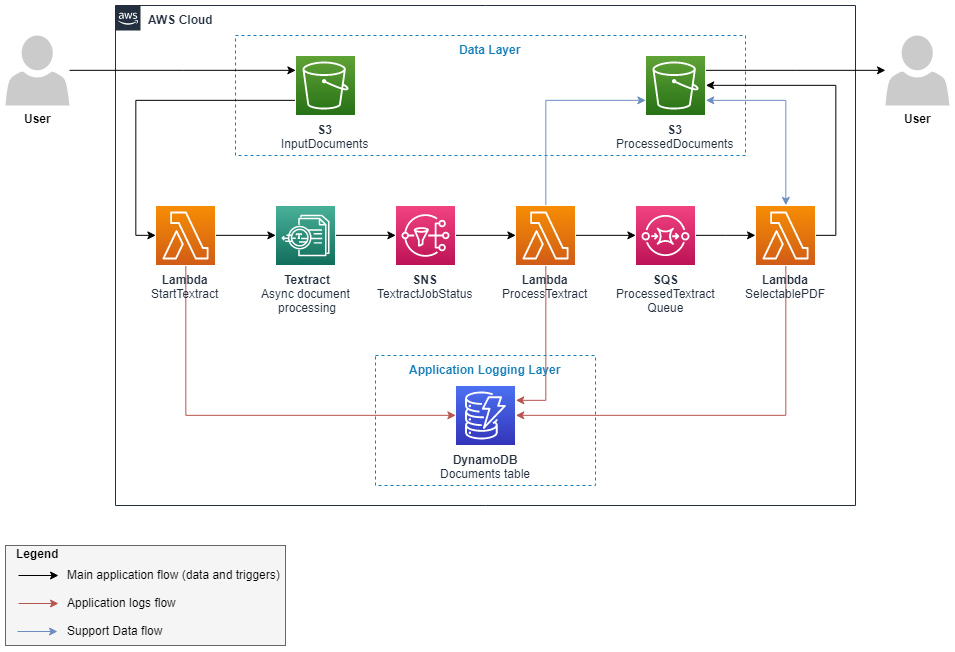
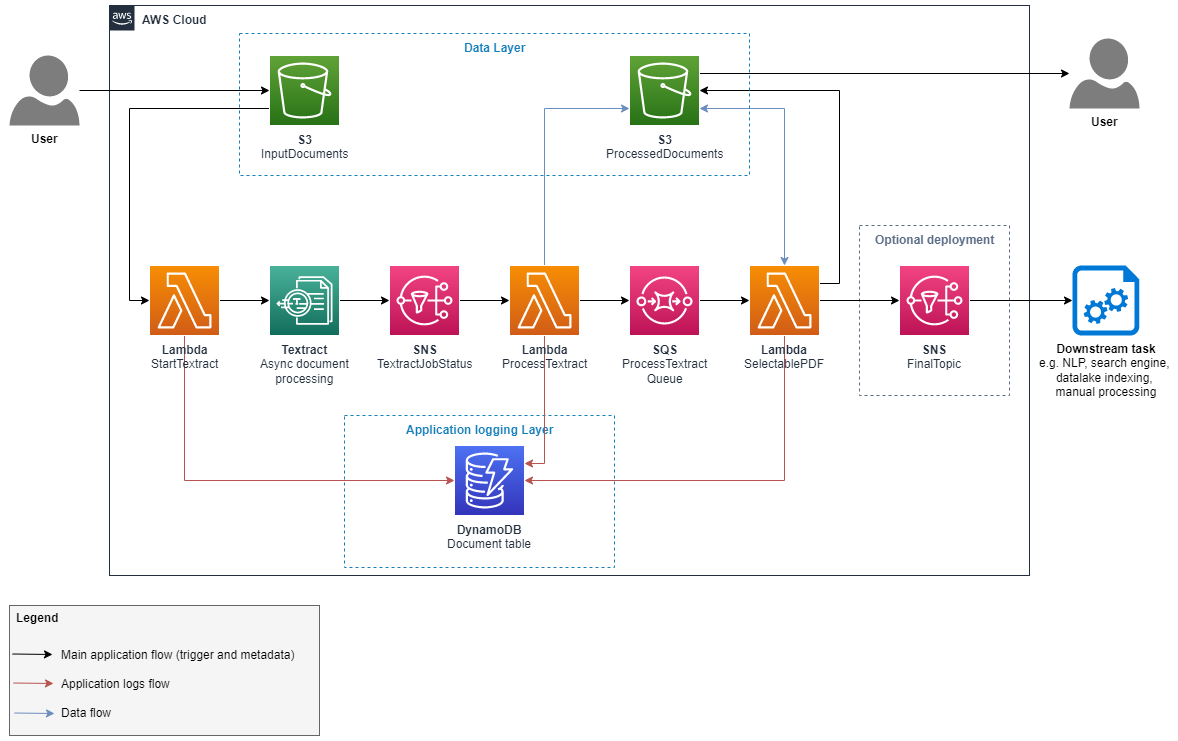
reorganize repo to make the stack fully usage as a module

diff --git a/selectable_pdf_infra/setup.py b/selectable_pdf_infra/setup.py
@@ -1,5 +1,8 @@
 import setuptools
 import pathlib
+import os
+from typing import List
+
 
 CURRENT_FILEPATH = pathlib.Path(__file__).absolute()
 CURRENT_DIRPATH = CURRENT_FILEPATH.parent.absolute()
@@ -9,15 +12,53 @@ LIB_DIRPATH = CURRENT_DIRPATH.parent.joinpath('lib')
 with open('README.md') as fp:
     long_description = fp.read()
 
+def build_package_data(dir: str) -> List[str]:
+    '''
+    build the list of files with their path from package directory, but with the 
+    package name in the returns. Imagine the following package structure:
+
+    |- mypackage
+        |- mypackage
+            |- __init__.py
+            |- code_for_mypackage.py
+            |- somedir
+                |- somefile.txt
+        |- setup.py
+
+    If we want to include somefile.txt in the installed package, we need to include 
+    in setup.py the following:
+
+    setuptools.setup(
+        packages=['mypackage'],
+        package_data={'mypackage': ['somedir/somefile.txt']}
+    )
+
+    this function helps to build the values of the package_data dict: 
+
+    package_data={'mypackage': build_package_data('mypackage/somedir')}
+    '''
+    file_list = list()
+    dir_tail = os.path.dirname(dir)
+    for path, subdirs, files in os.walk(dir):
+        join_path = path.replace(dir_tail+'/', '')
+        for name in files:
+            file_list.append(os.path.join(join_path, name))
+    return file_list
+
+package_data = list()
+package_data.extend(build_package_data('selectable_pdf_infra/lambda'))
+package_data.extend(build_package_data('selectable_pdf_infra/lambda_layer'))
+
 setuptools.setup(
     name='selectable_pdf_infra',
-    version='2.1.0',
+    version='2.2.0',
     description='infrastructure to convert scanned PDF\'s into selectable PDF\'s with AWS',
     long_description=long_description,
     long_description_content_type='text/markdown',
     author='Marcel Vonlanthen',
     email='vonlanth@amazon.com',
     packages=['selectable_pdf_infra'],
+    package_data={'selectable_pdf_infra': package_data},
     install_requires=[
         'wheel',
         'boto3',

diff --git a/selectable_pdf_infra/selectable_pdf_infra/lambda/selectable_pdf/main.py b/selectable_pdf_infra/selectable_pdf_infra/lambda/selectable_pdf/main.py
@@ -106,16 +106,20 @@ def lambda_handler(event, context):
 
         # prepare return dict
         ret = {
+            'document_name': document_name,
+            'document_id': document_id,
             'textract_response_s3': {
+                'bucket': rec['textract_output_s3']['bucket'],
+                'key': rec['textract_output_s3']['key']
+            },
+            'original_document_s3': {
+                'bucket': rec['original_document_s3']['bucket'],
+                'key': rec['original_document_s3']['key']
+            },
+            'processed_document_s3': {
                 'bucket': args['output_bucket'],
                 'key': output_key,
             },
-            'document_name': document_name,
-            'document_id': document_id,
-            'document_s3': {
-                'bucket': rec['original_document_s3']['bucket'],
-                'key': rec['original_document_s3']['key']
-            }
         }
         returns.append(ret)
 

diff --git a/selectable_pdf_infra/selectable_pdf_infra/selectable_pdf_stack.py b/selectable_pdf_infra/selectable_pdf_infra/selectable_pdf_stack.py
@@ -25,9 +25,8 @@ from cdk_lambda_layer_builder import BuildPyLayerAsset
 # ----------------------------
 CURRENT_FILEPATH = pathlib.Path(__file__).absolute()
 CURRENT_DIRPATH = CURRENT_FILEPATH.parent.absolute()
-LAMBDA_DIRPATH = CURRENT_DIRPATH.parent.joinpath('lambda')
-LAMBDA_LAYER_DIRPATH = CURRENT_DIRPATH.parent.joinpath('lambda_layer')
-LIB_DIRPATH = CURRENT_DIRPATH.parent.parent.joinpath('lib')
+LAMBDA_DIRPATH = CURRENT_DIRPATH.joinpath('lambda')
+LIB_DIRPATH = CURRENT_DIRPATH.joinpath('lambda_layer')
 
 
 # classes
@@ -38,7 +37,7 @@ class SelectablePdfStack(Stack):
         self, 
         scope: Construct, 
         construct_id: str,
-        log_level: str,
+        log_level: str='INFO',
         add_final_sns: bool=False,
         **kwargs
     ) -> None:
